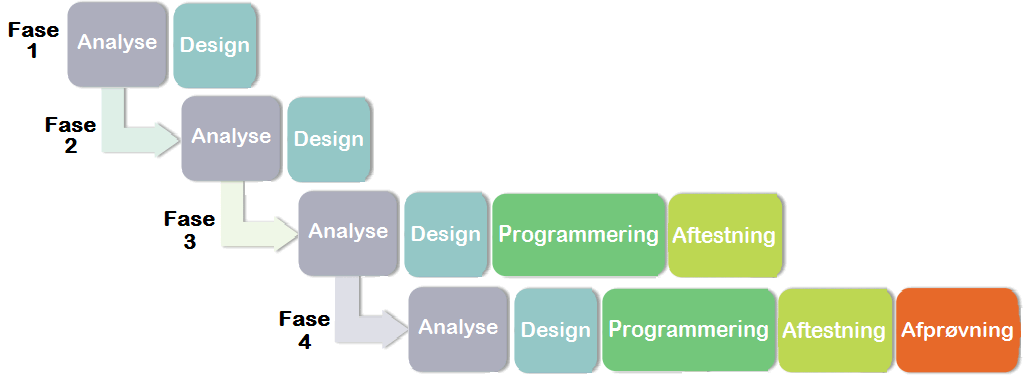
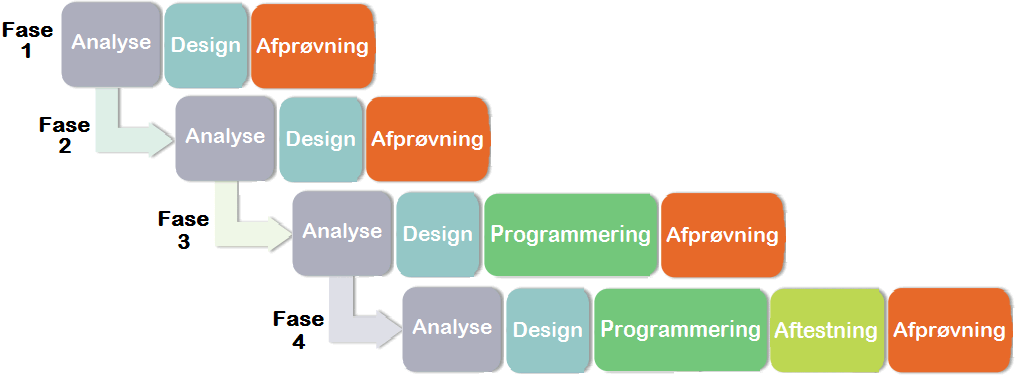
stuff

diff --git a/report/indhold/akademiskrapport/metode.tex b/report/indhold/akademiskrapport/metode.tex
@@ -21,7 +21,7 @@ Modsat findes den konstruktive arbejdsmetode (også kaldet vandfaldsmetoden), so
 
 Vi har kort beskrevet den evolutionære og den konstruktive arbejdsmetode. Vi har desuden beskrevet, at den evolutionære arbejdsmetode, er mere fleksibel, i forhold til den konstruktive arbejdmetode, når det problem, som skal løses, ændre sig. Men hvilke andre fordele og ulember er der, ved at vælge den ene arbejdsmetode, frem for den anden? Det kommer meget an på situationen. En forskel mellem de to metoder, er bl.a. dens måde at interagere med bruger/informanter. Mens der foregår et tæt samarbejde med informanter i den evolutionære arbejdsmetode, hvor der anvendes prototyper; har informanterne en mere passiv rolle, hvor de godkender beslutninger, og fungere som resurcer til informantion. Alt efter hvilke brguere/informanter man arbejder sammen med i sit projekt, vil den ene arbejdsmetode, være at foretrække fremfor den anden. En anden forskel mellem de to metoder, er dets tilgang til det endelig produkt/system. Den konstruktive arbejdsmetode har en meget strengent og langsigtet tidsplan, og man er ikke i tvivl om, hvornår produktet/systemet er færdigt. I en systemudviklingsproces med den evolutionære arbejdsmetodes tilgang, kan det modsat være svært, at vurdere  hvornår systemet er færdigt. Det vil altid være muligt at gå igennem endnu en iteration, og lave nye tilføjelser og redigeringer.
 
-Der er altså store forskelle på de to arbejdsmetodes tilgang til en systemudviklingsproces, og det er derfor op til situationen, hvilken der vil fungere bedst. Det er dog væsentligt at nævne, at det næsten aldrig vil være muligt, i en udviklingsproces, udelukkende at arbejde ud fra den ene arbejdsmetode. Som regel vil elementer fra begge arbejdsmetoder, blive implementeret, men én vil være dominerende. I vores projektforløb, anvendte vi også elementer fra begge metoder, men udgangspunktet var den evolutionære arbejdsmetode. Dette var grundet, at problemet som vi fokuserede på, ikke var fuldkommen klart i den initierende del af forløbet. Vi havde kurser, sideløbende med projektet, som gjorde at vi ikke kunne komme igennem hver eneste projektdel, da vi først skulle introduceres for nogle begreber, i vores kurser omhandlende systemudvikling \cite{ooad} og designing interactive systems \cite{deb}. Vores arbejdsmetode, er illustreret i \figref{fig:blandingsmetode}. Vi delte processen op i 4 faser, hvor vi i de to første faser, udelukkende arbejdede med analyse- og designdelen. Først i tredje fase b  
+Der er altså store forskelle på de to arbejdsmetodes tilgang til en systemudviklingsproces, og det er derfor op til situationen, hvilken der vil fungere bedst. Det er dog væsentligt at nævne, at det næsten aldrig vil være muligt, i en udviklingsproces, udelukkende at arbejde ud fra den ene arbejdsmetode. Som regel vil elementer fra begge arbejdsmetoder, blive implementeret, men én vil være dominerende. I vores projektforløb, anvendte vi også elementer fra begge metoder, men udgangspunktet var den evolutionære arbejdsmetode. Dette var grundet, at problemet som vi fokuserede på, ikke var fuldkommen klart i den initierende del af forløbet. Vi havde kurser, sideløbende med projektet, som gjorde at vi ikke kunne komme igennem hver eneste projektdel, da vi først skulle introduceres for nogle begreber, i vores kurser omhandlende systemudvikling \cite{ooad} og designing interactive systems \cite{deb}. Vores arbejdsmetode, er illustreret i \figref{fig:blandingsmetode}. Vi delte processen op i 4 faser, hvor vi i de to første faser, udelukkende arbejdede med analyse- og designdelen, samt afprøvening ved hjælp af protoyper. Først i tredje fase begyndte vi at programmere, og at teste 
 
 \begin{figure}[h]
 		\centering

diff --git a/report/indhold/forord.tex b/report/indhold/forord.tex
@@ -1,6 +1,6 @@
 \chapter*{Forord}
-Denne rapport beskriver udviklingen af systemet \Foodl{} - en webapplikation, som er tilgængelig på \url{http://www.foodl.dk}. \Foodl{} er et system, der gør det lettere at få inspiration til, hvordan man kan anvende sine madrester, så man undgår blot at smide dem ud. \Foodl{} søger blandt opskrifter, fra Arla Foods hjemmeside \url{http;//www.arla.dk}, og præsenterer de opskrifter, som indeholder flest af de madvarer, som brugeren har indtastet. Det er nødvendigt for brugeren at følge et link til Arla's hjemmeside, for at få vist hele opskriften.
+Denne rapport beskriver udviklingen af systemet \Foodl{} - en webapplikation, som er tilgængelig på \url{http://www.foodl.dk}. \Foodl{} er et system, der gør det lettere at få inspiration til, hvordan man kan anvende sine madrester, så man kan undgå at smide dem ud. \Foodl{} søger blandt opskrifter, fra Arla Foods hjemmeside \url{http://www.arla.dk}, og præsentere de opskrifter, som indeholder flest af de madvarer, som brugeren har indtastet. Det er nødvendigt for brugeren at følge et link til Arla's hjemmeside, for at få vist hele opskriften.
 
-Udviklingsprocessen er baseret på teknikker fra Objektorienterede Analyse og Design \cite{ooad}, teknikker til Design og Evaluering af Brugergrænseflader \cite{deb} og inddragelse af 2 informanter, Merete og Keld, der ved hjælp af deres viden og erfaringer i et køkken har været med til at udforme systemet og afprøve dette. Informanterne er blevet inddraget ved forskellige aktiviteter, herunder interviews, test af prototyper og en usability-test på det endelige system.
+Udviklingsprocessen er baseret på teknikker fra Objektorienterede Analyse og Design \cite{ooad}, teknikker til Design og Evaluering af Brugergrænseflader \cite{deb} og inddragelse af 2 informanter, Merete og Keld, der ved hjælp af deres viden og erfaringer i et køkken, har været med til at udforme systemet og afprøve dette. Informanterne er blevet inddraget ved forskellige aktiviteter, herunder interviews, test af prototyper og en usability-test af det endelige system.
 
 \section*{Læsevejledning}

diff --git a/report/formalia/titelblad.tex b/report/formalia/titelblad.tex
@@ -20,7 +20,6 @@
 \titleitem{Tema}{Udvikling af applikationer – fra brugere til data, algoritmer og test – og tilbage igen}
 
 \titleitem{Projektperiode}{P3, 3. september - 20. december 2012}
-\label{tidsperiode}
 
 \titleitem{Projektgruppe}{d303e12 (\url{d303e12@cs.aau.dk})}
 
